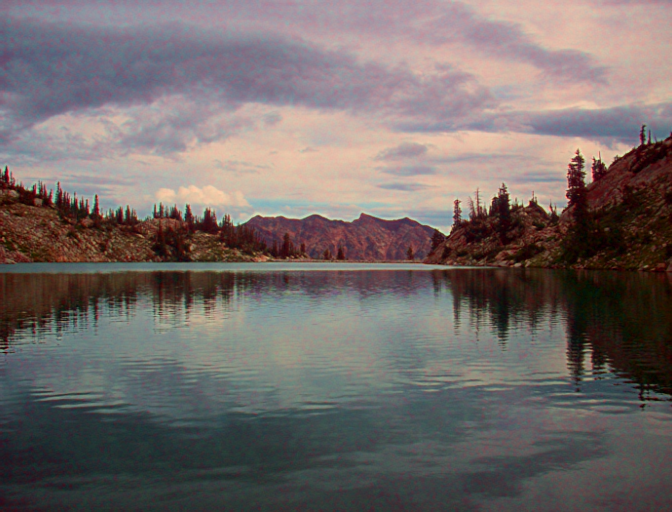
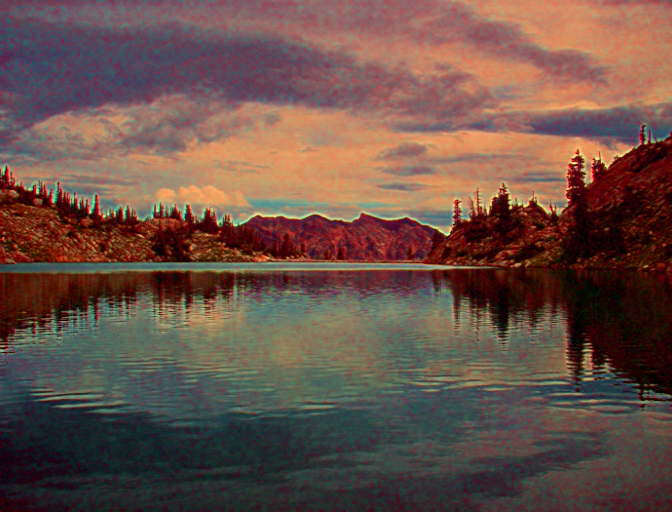
final

diff --git a/transfer.py b/transfer.py
@@ -39,8 +39,8 @@ IMG_EXTENSIONS = [
 ]
 
 
-def is_image_file(filename): # image 확장자 체크하는 기능
-    return any(filename.endswith(extension) for extension in IMG_EXTENSIONS) # 단하나라도 참이 있으면 True
+def is_image_file(filename):
+    return any(filename.endswith(extension) for extension in IMG_EXTENSIONS)
 
 
 class WCT2:
@@ -54,7 +54,7 @@ class WCT2:
         self.verbose = verbose
         self.encoder = WaveEncoder(option_unpool).to(self.device)
         self.decoder = WaveDecoder(option_unpool).to(self.device)
-        self.encoder.load_state_dict(torch.load(os.path.join(model_path, 'wave_encoder_{}_l4.pth'.format(option_unpool)), map_location=lambda storage, loc: storage)) #<- weight 값 불러오기
+        self.encoder.load_state_dict(torch.load(os.path.join(model_path, 'wave_encoder_{}_l4.pth'.format(option_unpool)), map_location=lambda storage, loc: storage))
         self.decoder.load_state_dict(torch.load(os.path.join(model_path, 'wave_decoder_{}_l4.pth'.format(option_unpool)), map_location=lambda storage, loc: storage))
 
     def print_(self, msg):
@@ -62,15 +62,14 @@ class WCT2:
             print(msg)
 
     def encode(self, x, skips, level):
-        return self.encoder.encode(x, skips, level) #encoder 가져오기
+        return self.encoder.encode(x, skips, level)
 
     def decode(self, x, skips, level):
-        return self.decoder.decode(x, skips, level) #decoder 가져오기
+        return self.decoder.decode(x, skips, level)
 
-    def get_all_feature(self, x): #style feature를 가져오기 위해서
+    def get_all_feature(self, x):
         skips = {}
-        feats = {'encoder': {}, 'decoder': {}} #dictionary 안에 dictionary
-
+        feats = {'encoder': {}, 'decoder': {}}
         for level in [1, 2, 3, 4]:
             x = self.encode(x, skips, level)
             if 'encoder' in self.transfer_at:
@@ -78,57 +77,45 @@ class WCT2:
 
         if 'encoder' not in self.transfer_at:
             feats['decoder'][4] = x
-
         for level in [4, 3, 2]:
             x = self.decode(x, skips, level)
             if 'decoder' in self.transfer_at:
                 feats['decoder'][level - 1] = x
-                
         return feats, skips
 
-    #여기가 굉장히 중요한 부분 
-    def transfer(self, content, style, content_segment, style_segment, alpha=0.5):
+    def transfer(self, content, style, content_segment, style_segment, alpha=1):
         label_set, label_indicator = compute_label_info(content_segment, style_segment)
         content_feat, content_skips = content, {}
-
         style_feats, style_skips = self.get_all_feature(style)
 
         wct2_enc_level = [1, 2, 3, 4]
         wct2_dec_level = [1, 2, 3, 4]
         wct2_skip_level = ['pool1', 'pool2', 'pool3']
-
-        # content feature에 대한 wct transform content_skips은 empty list
+        
+        
         for level in [1, 2, 3, 4]:
             content_feat = self.encode(content_feat, content_skips, level)
-         
             if 'encoder' in self.transfer_at and level in wct2_enc_level:
                 content_feat = feature_wct2(content_feat, style_feats['encoder'][level],
-                                            content_segment, style_segment,
-                                            label_set, label_indicator,
-                                            alpha=alpha, device=self.device)
+                                           content_segment, style_segment,
+                                           label_set, label_indicator,
+                                           alpha=alpha, device=self.device)
                 self.print_('transfer at encoder {}'.format(level))
-
-        #skip connection에도 wct transform을 해주었다.
         if 'skip' in self.transfer_at:
             for skip_level in wct2_skip_level:
                 for component in [0, 1, 2]:  # component: [LH, HL, HH]
-                    content_skips[skip_level][component] = feature_wct2(content_skips[skip_level][component], style_skips[skip_level][component],
-                                                                       content_segment, style_segment,
-                                                                       label_set, label_indicator,
-                                                                       alpha=alpha, device=self.device)
+                    content_skips[skip_level][component] = feature_wct2(content_skips[skip_level][component], style_skips[skip_level][component],content_segment, style_segment, label_set, label_indicator,alpha=alpha, device=self.device)
                 self.print_('transfer at skip {}'.format(skip_level))
 
-        #decoder에 대한 wct transform
         for level in [4, 3, 2, 1]:
             if 'decoder' in self.transfer_at and level in style_feats['decoder'] and level in wct2_dec_level:
-                    content_feat = feature_wct2(content_feat, style_feats['decoder'][level],
-                                               content_segment, style_segment,
-                                               label_set, label_indicator,
-                                               alpha=alpha, device=self.device)
-                    self.print_('transfer at decoder {}'.format(level))
+                content_feat = feature_wct2(content_feat, style_feats['decoder'][level],
+                                           content_segment, style_segment,
+                                           label_set, label_indicator,
+                                           alpha=alpha, device=self.device)
+                self.print_('transfer at decoder {}'.format(level))
             content_feat = self.decode(content_feat, content_skips, level)
-
-        return content_feat 
+        return content_feat
 
 
 def get_all_transfer():
@@ -165,8 +152,6 @@ def run_bulk(config):
         if not is_image_file(fname):
             print('invalid file (is not image), ', fname)
             continue
-
-        #content 및 style file 경로
         _content = os.path.join(config.content, fname)
         _style = os.path.join(config.style, fname)
         _content_segment = os.path.join(config.content_segment, fname) if config.content_segment else None
@@ -175,21 +160,18 @@ def run_bulk(config):
 
         content = open_image(_content, config.image_size).to(device)
         style = open_image(_style, config.image_size).to(device)
-
         content_segment = load_segment(_content_segment, config.image_size)
         style_segment = load_segment(_style_segment, config.image_size)     
         _, ext = os.path.splitext(fname)
-        
+    
         if not config.transfer_all:
             with Timer('Elapsed time in whole WCT: {}', config.verbose):
                 postfix = '_'.join(sorted(list(transfer_at)))
                 fname_output = _output.replace(ext, '_{}_{}.{}'.format(config.option_unpool, postfix, ext))
                 print('------ transfer:', _output)
                 wct2 = WCT2(transfer_at=transfer_at, option_unpool=config.option_unpool, device=device, verbose=config.verbose)
-
                 with torch.no_grad():
                     img = wct2.transfer(content, style, content_segment, style_segment, alpha=config.alpha)
-
                 save_image(img.clamp_(0, 1), fname_output, padding=0)
         else:
             for _transfer_at in get_all_transfer():
@@ -211,7 +193,7 @@ if __name__ == '__main__':
     parser.add_argument('--style_segment', type=str, default=None)
     parser.add_argument('--output', type=str, default='./outputs')
     parser.add_argument('--image_size', type=int, default=512)
-    parser.add_argument('--alpha', type=float, default=0.5)
+    parser.add_argument('--alpha', type=float, default=1)
     parser.add_argument('--option_unpool', type=str, default='cat5', choices=['sum', 'cat5'])
     parser.add_argument('-e', '--transfer_at_encoder', action='store_true')
     parser.add_argument('-d', '--transfer_at_decoder', action='store_true')
@@ -227,14 +209,6 @@ if __name__ == '__main__':
         os.makedirs(os.path.join(config.output))
 
     '''
-    CUDA_VISIBLE_DEVICES=6 python transfer.py 
-    --content ./examples/content 
-    --style ./examples/style 
-    --content_segment ./examples/content_segment 
-    --style_segment ./examples/style_segment/ 
-    --output ./outputs/ 
-    --verbose 
-    --image_size 512 
-    -a
+    CUDA_VISIBLE_DEVICES=6 python transfer.py --content ./examples/content --style ./examples/style --content_segment ./examples/content_segment --style_segment ./examples/style_segment/ --output ./outputs/ --verbose --image_size 512 -a
     '''
     run_bulk(config)

diff --git a/model.py b/model.py
@@ -98,20 +98,17 @@ class WaveUnpool(nn.Module):
 
 
 class WaveEncoder(nn.Module):
-    def __init__(self, option_unpool): #option_unpool을 입력 값으로 받음
-        super(WaveEncoder, self).__init__() # 이거 뭐임? 자식클라스에서 부모클래스의 내용을 사용하고 싶을 경우 initialize하는 거 같은데..
-
+    def __init__(self, option_unpool):
+        super(WaveEncoder, self).__init__()
         self.option_unpool = option_unpool
 
         self.pad = nn.ReflectionPad2d(1)
         self.relu = nn.ReLU(inplace=True)
 
-        #전체적으로 padding은 안함, 그리고 conv[level]_[number]로 naming이 되어있다. 
-        #첫 번째가 inchannel 두 번째가 outchannel 3번째가 kernel size 4째가 stride 5째가 padding
         self.conv0 = nn.Conv2d(3, 3, 1, 1, 0)
         self.conv1_1 = nn.Conv2d(3, 64, 3, 1, 0)
-        self.conv1_2 = nn.Conv2d(64, 64, 3, 1, 0) 
-        self.pool1 = WavePool(64) #wavlet pooling
+        self.conv1_2 = nn.Conv2d(64, 64, 3, 1, 0)
+        self.pool1 = WavePool(64)
 
         self.conv2_1 = nn.Conv2d(64, 128, 3, 1, 0)
         self.conv2_2 = nn.Conv2d(128, 128, 3, 1, 0)
@@ -124,10 +121,9 @@ class WaveEncoder(nn.Module):
         self.pool3 = WavePool(256)
 
         self.conv4_1 = nn.Conv2d(256, 512, 3, 1, 0)
-        # 여기까지 initialize 
 
     def forward(self, x):
-        skips = {} # dictionary 자료형에 LH,HL,HH가 담기게 된다.
+        skips = {}
         for level in [1, 2, 3, 4]:
             x = self.encode(x, skips, level)
         return x
@@ -162,23 +158,19 @@ class WaveEncoder(nn.Module):
             else:
                 return self.relu(self.conv4_1(self.pad(x)))
 
-    #cat5, 이걸 사용한다.
         elif self.option_unpool == 'cat5':
             if level == 1:
                 out = self.conv0(x)
                 out = self.relu(self.conv1_1(self.pad(out)))
-                return out 
-                #level을 나누어 out을 뽑는 이유가 wct를 적용하기 위해서이다.
-                #여기서 channel은 3이다. 
+                return out
 
             elif level == 2:
                 out = self.relu(self.conv1_2(self.pad(x)))
                 skips['conv1_2'] = out
                 LL, LH, HL, HH = self.pool1(out)
-                skips['pool1'] = [LH, HL, HH] #저장하네
-                out = self.relu(self.conv2_1(self.pad(LL))) #relu를 이용했네
+                skips['pool1'] = [LH, HL, HH]
+                out = self.relu(self.conv2_1(self.pad(LL)))
                 return out
-                #여기서 channel은 128
 
             elif level == 3:
                 out = self.relu(self.conv2_2(self.pad(x)))
@@ -187,7 +179,6 @@ class WaveEncoder(nn.Module):
                 skips['pool2'] = [LH, HL, HH]
                 out = self.relu(self.conv3_1(self.pad(LL)))
                 return out
-                #여기서 channel은 256
 
             else:
                 out = self.relu(self.conv3_2(self.pad(x)))
@@ -198,7 +189,6 @@ class WaveEncoder(nn.Module):
                 skips['pool3'] = [LH, HL, HH]
                 out = self.relu(self.conv4_1(self.pad(LL)))
                 return out
-                #여기서 channel은 512
         else:
             raise NotImplementedError
 
@@ -215,7 +205,7 @@ class WaveDecoder(nn.Module):
         else:
             raise NotImplementedError
 
-        self.pad = nn.ReflectionPad2d(1) # 1 padding을 진행한다. 
+        self.pad = nn.ReflectionPad2d(1)
         self.relu = nn.ReLU(inplace=True)
         self.conv4_1 = nn.Conv2d(512, 256, 3, 1, 0)
 
@@ -223,9 +213,7 @@ class WaveDecoder(nn.Module):
         if option_unpool == 'sum':
             self.conv3_4 = nn.Conv2d(256*multiply_in, 256, 3, 1, 0)
         else:
-            self.conv3_4_2 = nn.Conv2d(256*multiply_in, 256, 3, 1, 0) 
-            # LH, HL, HH랑 concatenation을 하기 때문에 입력 채널에 곱하기 5를 진행한다.
-
+            self.conv3_4_2 = nn.Conv2d(256*multiply_in, 256, 3, 1, 0)
         self.conv3_3 = nn.Conv2d(256, 256, 3, 1, 0)
         self.conv3_2 = nn.Conv2d(256, 256, 3, 1, 0)
         self.conv3_1 = nn.Conv2d(256, 128, 3, 1, 0)
@@ -255,16 +243,11 @@ class WaveDecoder(nn.Module):
             out = self.relu(self.conv4_1(self.pad(x)))
             LH, HL, HH = skips['pool3']
             original = skips['conv3_4'] if 'conv3_4' in skips.keys() else None
-            out = self.recon_block3(out, LH, HL, HH, original) #Wav unpool
-            
-            #conv3_4_2를 사용
-            _conv3_4 = self.conv3_4 if self.option_unpool == 'sum' else self.conv3_4_2 
-            
+            out = self.recon_block3(out, LH, HL, HH, original)
+            _conv3_4 = self.conv3_4 if self.option_unpool == 'sum' else self.conv3_4_2
             out = self.relu(_conv3_4(self.pad(out)))
             out = self.relu(self.conv3_3(self.pad(out)))
-            
-            return self.relu(self.conv3_2(self.pad(out))) #encoder와 마찬가지로 wct를 진행하기 위해서
-        
+            return self.relu(self.conv3_2(self.pad(out)))
         elif level == 3:
             out = self.relu(self.conv3_1(self.pad(x)))
             LH, HL, HH = skips['pool2']
@@ -272,7 +255,6 @@ class WaveDecoder(nn.Module):
             out = self.recon_block2(out, LH, HL, HH, original)
             _conv2_2 = self.conv2_2 if self.option_unpool == 'sum' else self.conv2_2_2
             return self.relu(_conv2_2(self.pad(out)))
-
         elif level == 2:
             out = self.relu(self.conv2_1(self.pad(x)))
             LH, HL, HH = skips['pool1']
@@ -280,6 +262,5 @@ class WaveDecoder(nn.Module):
             out = self.recon_block1(out, LH, HL, HH, original)
             _conv1_2 = self.conv1_2 if self.option_unpool == 'sum' else self.conv1_2_2
             return self.relu(_conv1_2(self.pad(out)))
-            
         else:
             return self.conv1_1(self.pad(x))
